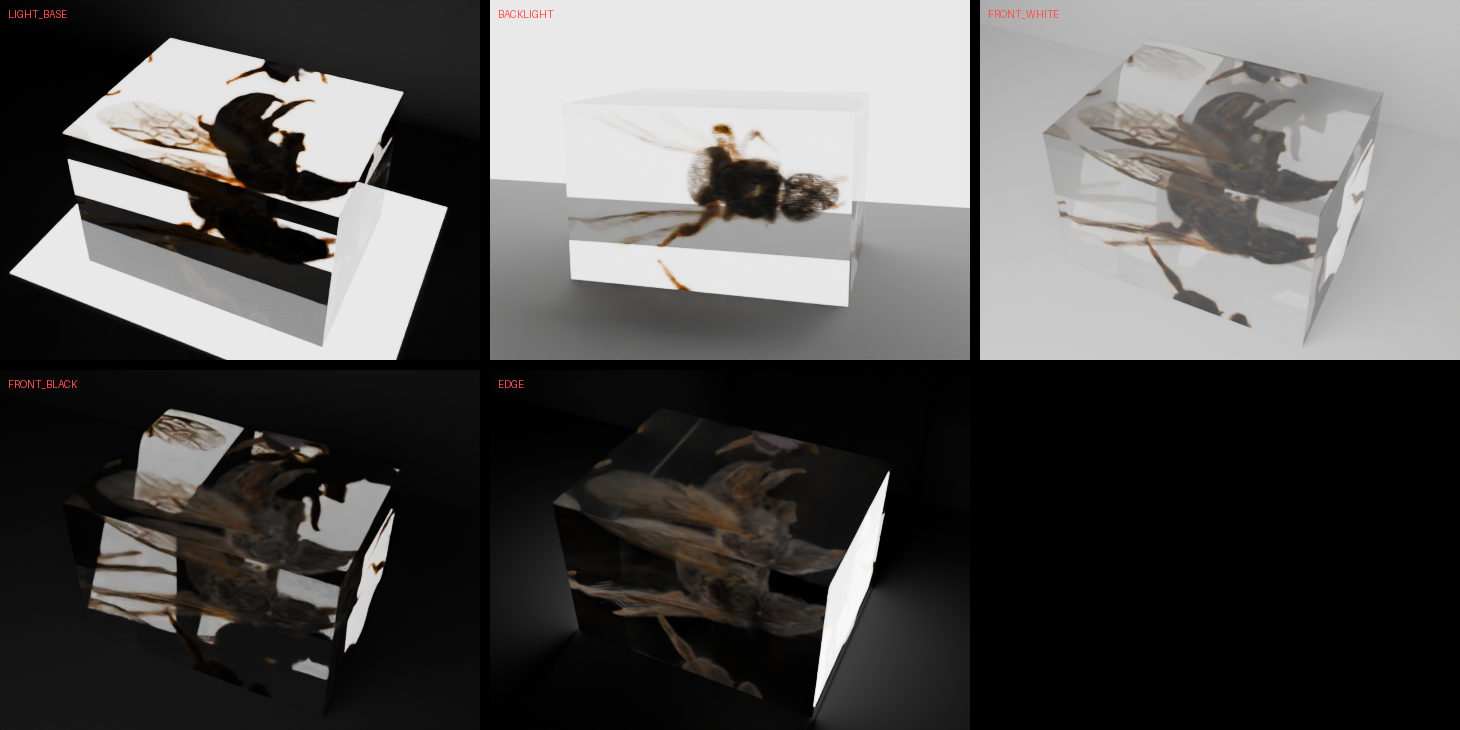
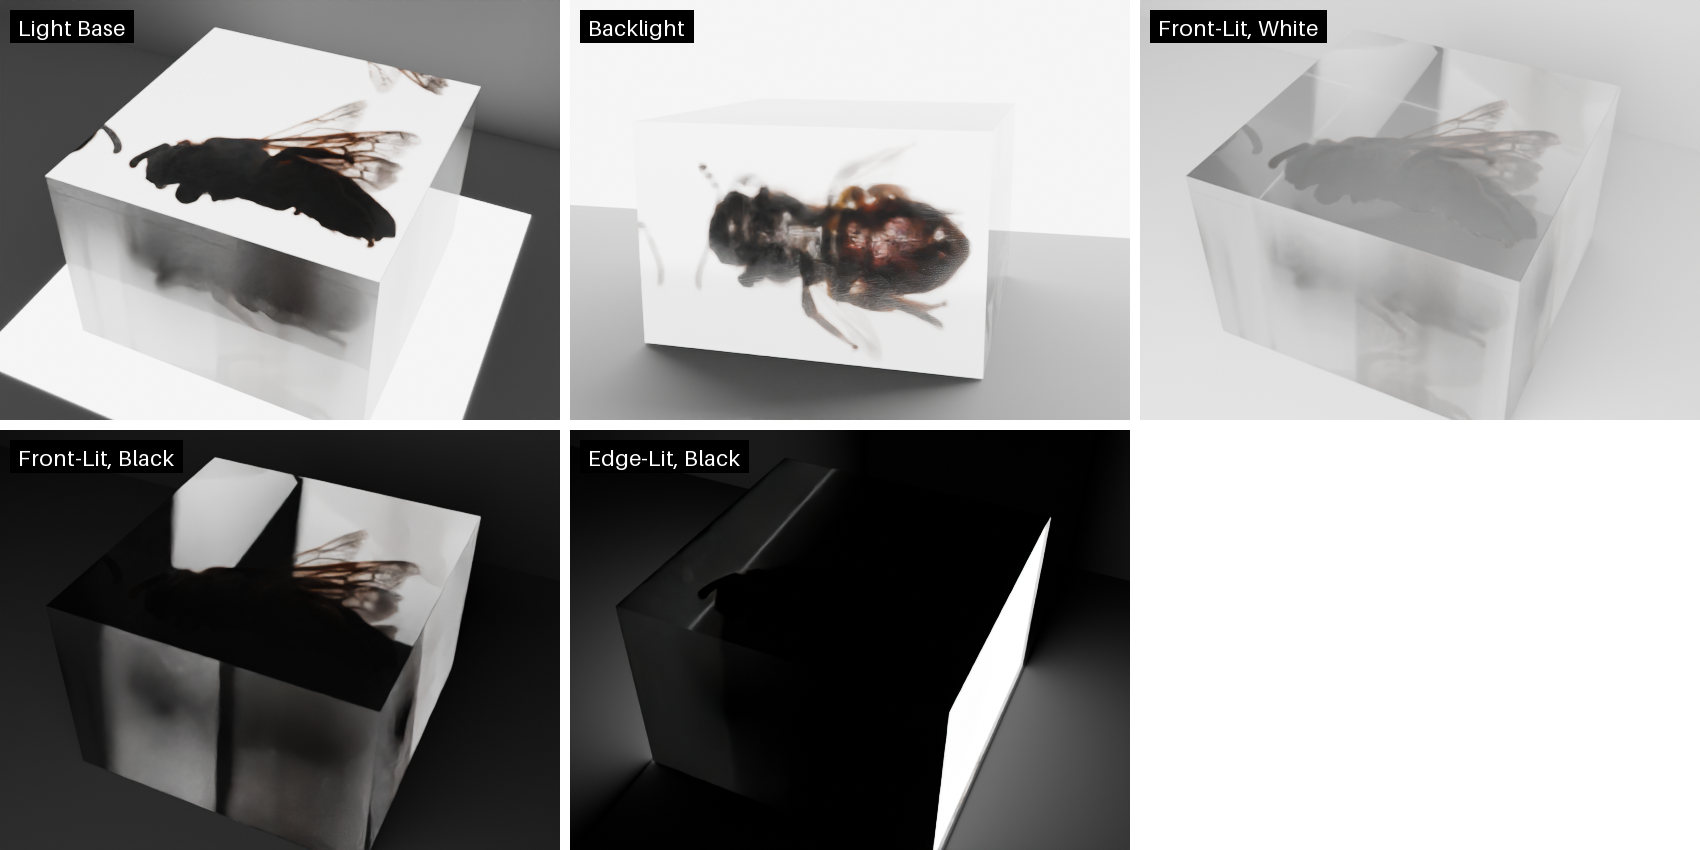
Brighten the optics lighting and redo the doc images with the 4.13M bee
Light Base and Backlight now sit in dim grey surroundings instead of near
black, and the front and edge lamps are stronger, so the default preview
reads well at Brightness 2. All optics images in the README and quick start
are re-rendered from the 4.13-million-splat bee test scan at Fine quality
(the old ones used the small 130k-splat bee and the old 1x lights), and the
stacking overlay image is a fresh capture of the same scan. Test data now
lives in its own test-data release so links don't move with each version.

diff --git a/gs_slicer/optical.py b/gs_slicer/optical.py
@@ -293,11 +293,11 @@ def set_visible(context, on):
 #   floor/wall: backdrop grey level, or None for none; base/back: emissive strength of the light pad
 #   under the block / the panel behind it; key: front lamp strength; edge: side-strip strength.
 LIGHTING = {
-    'LIGHT_BASE': dict(floor=0.08, wall=0.08, base=4.0, world=0.02),
-    'BACKLIGHT': dict(floor=0.25, wall=None, back=4.0, world=0.02),
-    'FRONT_WHITE': dict(floor=0.85, wall=0.85, key=6.0, world=0.15),
-    'FRONT_BLACK': dict(floor=0.01, wall=0.01, key=6.0, world=0.0),
-    'EDGE': dict(floor=0.01, wall=0.01, edge=12.0, world=0.0),
+    'LIGHT_BASE': dict(floor=0.35, wall=0.35, base=4.0, world=0.25),
+    'BACKLIGHT': dict(floor=0.45, wall=None, back=4.0, world=0.25),
+    'FRONT_WHITE': dict(floor=0.85, wall=0.85, key=8.0, world=0.25),
+    'FRONT_BLACK': dict(floor=0.01, wall=0.01, key=8.0, world=0.0),
+    'EDGE': dict(floor=0.01, wall=0.01, edge=16.0, world=0.0),
 }
 WORLD_NAME = "Splat Optics World"
 _PREV_WORLD = "gs_slicer_prev_world"
@@ -399,7 +399,7 @@ def build_studio(context):
 def apply_brightness(scene):
     """Scale every display light by the Brightness setting (no rebuild)."""
     k = scene.gs_slicer.optical_brightness
-    legacy = {"Optics Light Base": 4.0, "Optics Backlight": 4.0, "Optics Key Light": 6.0, "Optics Edge Light": 12.0}
+    legacy = {"Optics Light Base": 4.0, "Optics Backlight": 4.0, "Optics Key Light": 8.0, "Optics Edge Light": 16.0}
     for mat in bpy.data.materials:
         base = mat.get(_BASE_STRENGTH, legacy.get(mat.name))     # lights built by 0.2.0 didn't record it
         if base is not None and mat.node_tree and "Emission" in mat.node_tree.nodes:

diff --git a/gs_slicer/props.py b/gs_slicer/props.py
@@ -221,7 +221,7 @@ class GSSlicerSettings(bpy.types.PropertyGroup):
                                       update=lambda self, ctx: _brightness_changed(ctx),
                                       description="Multiplier on every light of the display setup")
     optical_lighting: EnumProperty(name="Lighting", default='LIGHT_BASE', update=_lighting_changed, items=[
-        ('LIGHT_BASE', "Light Base", "Bright light pad under the block, dark surroundings: the classic display"),
+        ('LIGHT_BASE', "Light Base", "Bright light pad under the block, dim grey surroundings: the classic display"),
         ('BACKLIGHT', "Backlight", "Bright panel behind the block, for front and side views"),
         ('FRONT_WHITE', "Front-Lit, White", "Soft light from the front, white backdrop (no light through the block)"),
         ('FRONT_BLACK', "Front-Lit, Black", "Soft light from the front, black backdrop: the hardest case without white ink"),

diff --git a/README.md b/README.md
@@ -4,14 +4,14 @@ Plan a clear laminated block around a Gaussian splat and slice it into printable
 Each layer is printed on a clear sheet (e.g. 0.2 mm PET), the sheets are glued (LOCA / UV resin)
 and stacked on a registration jig, and the block is trimmed and polished.
 
-Sidebar: **3D Viewport > N > Splat Slicer**.
+Sidebar: **3D Viewport > N > Splat Slicer**. Uses Blender 5.3's native splat import
+(`File > Import > PLY / SPZ`).
 
 **New here? Start with the [Quick start guide](docs/QUICKSTART.md)**: a step-by-step walk-through with
 screenshots, using a test scan you can download from the
-[latest release](https://github.com/timfennell/blender-splat-slicer/releases/latest). Uses Blender 5.3's native splat import
-(`File > Import > PLY / SPZ`).
+[test-data release](https://github.com/timfennell/blender-splat-slicer/releases/tag/test-data).
 
-![The Splat Slicer panel with a block fitted around a bee scan](docs/images/overview.jpg)
+![The Splat Slicer panel with a block fitted around the 4.13-million-splat bee scan](docs/images/overview.jpg)
 
 ## Workflow
 
@@ -57,7 +57,7 @@ With **Show Stacking** on, the block shows:
 
 ## Optical preview (Cycles)
 
-![The same block rendered face-on, oblique, grazing and edge-on](docs/images/optical.jpg)
+![The bee block face-on and oblique on a light base, and grazing and edge-on with a backlight](docs/images/optical.jpg)
 
 Pick the **Material** first. Each preset sets the refractive indices, haze, side finish (polished) and ink scatter:
 
@@ -95,14 +95,14 @@ The splat and the slice overlay are hidden while it shows. **Lighting** picks th
 
 | Lighting | Setup | What it tells you |
 |---|---|---|
-| **Light Base** (default) | bright pad under the block, dark surroundings | the classic display: full colour through the top |
+| **Light Base** (default) | bright pad under the block, dim grey surroundings | the classic display: full colour through the top |
 | **Backlight** | bright panel behind the block | front and side views, lit through |
 | **Front-Lit, White** | soft front light, white backdrop | room light on a white shelf: the backdrop bounces light back through |
 | **Front-Lit, Black** | soft front light, black backdrop | the hardest case without white ink: dim and murky |
 | **Edge-Lit, Black** | light strips against the side faces, black backdrop | only scattering ink lights up |
 | **Scene Lighting** | none | your own lights and world |
 
-![The bee block under each lighting setup](docs/images/lighting.png)
+![The 4.13-million-splat bee block under each lighting setup, at the default Brightness of 2](docs/images/lighting.png)
 
 Every light is a glowing panel, so its brightness doesn't depend on how far the block box is scaled.
 Panels that stand in for lamps are hidden from the camera. Optics mode uses its own world (background),
@@ -343,8 +343,9 @@ blender --command extension install-file -r user_default -e dist/gs_slicer-0.1.0
 
 ## Test data and license
 
-The *Bee Extra Extra Large (4.13 Million Splats)* scan used in the quick start is attached to each release as
-`bee_extra_extra_large.zip`. It's by [Tim Fennell](https://superspl.at/user/timfennell)
+The *Bee Extra Extra Large (4.13 Million Splats)* scan used in the quick start and in the images here is
+attached to the [test-data release](https://github.com/timfennell/blender-splat-slicer/releases/tag/test-data) as
+`bee_extra_extra_large.zip` (342 MB; unzips to `scene.ply`, 974 MB). Rotate it 180° on X after import. It's by [Tim Fennell](https://superspl.at/user/timfennell)
 ([view it on SuperSplat](https://superspl.at/scene/de6f7e2b)) and licensed
 [CC BY 4.0](http://creativecommons.org/licenses/by/4.0/): credit the author; commercial use is allowed.
 

diff --git a/docs/QUICKSTART.md b/docs/QUICKSTART.md
@@ -5,7 +5,7 @@ session with the 4.13-million-splat *Bee Extra Extra Large* scan in Blender 5.3.
 does in depth, see the [README](../README.md).
 
 **Test data:** the same bee scan is attached to the
-[latest release](https://github.com/timfennell/blender-splat-slicer/releases/latest) as
+[test-data release](https://github.com/timfennell/blender-splat-slicer/releases/tag/test-data) as
 `bee_extra_extra_large.zip` (342 MB; unzips to `scene.ply`, 974 MB). *Bee Extra Extra Large (4.13 Million
 Splats)* by [Tim Fennell](https://superspl.at/user/timfennell)
 ([view it on SuperSplat](https://superspl.at/scene/de6f7e2b)), licensed
